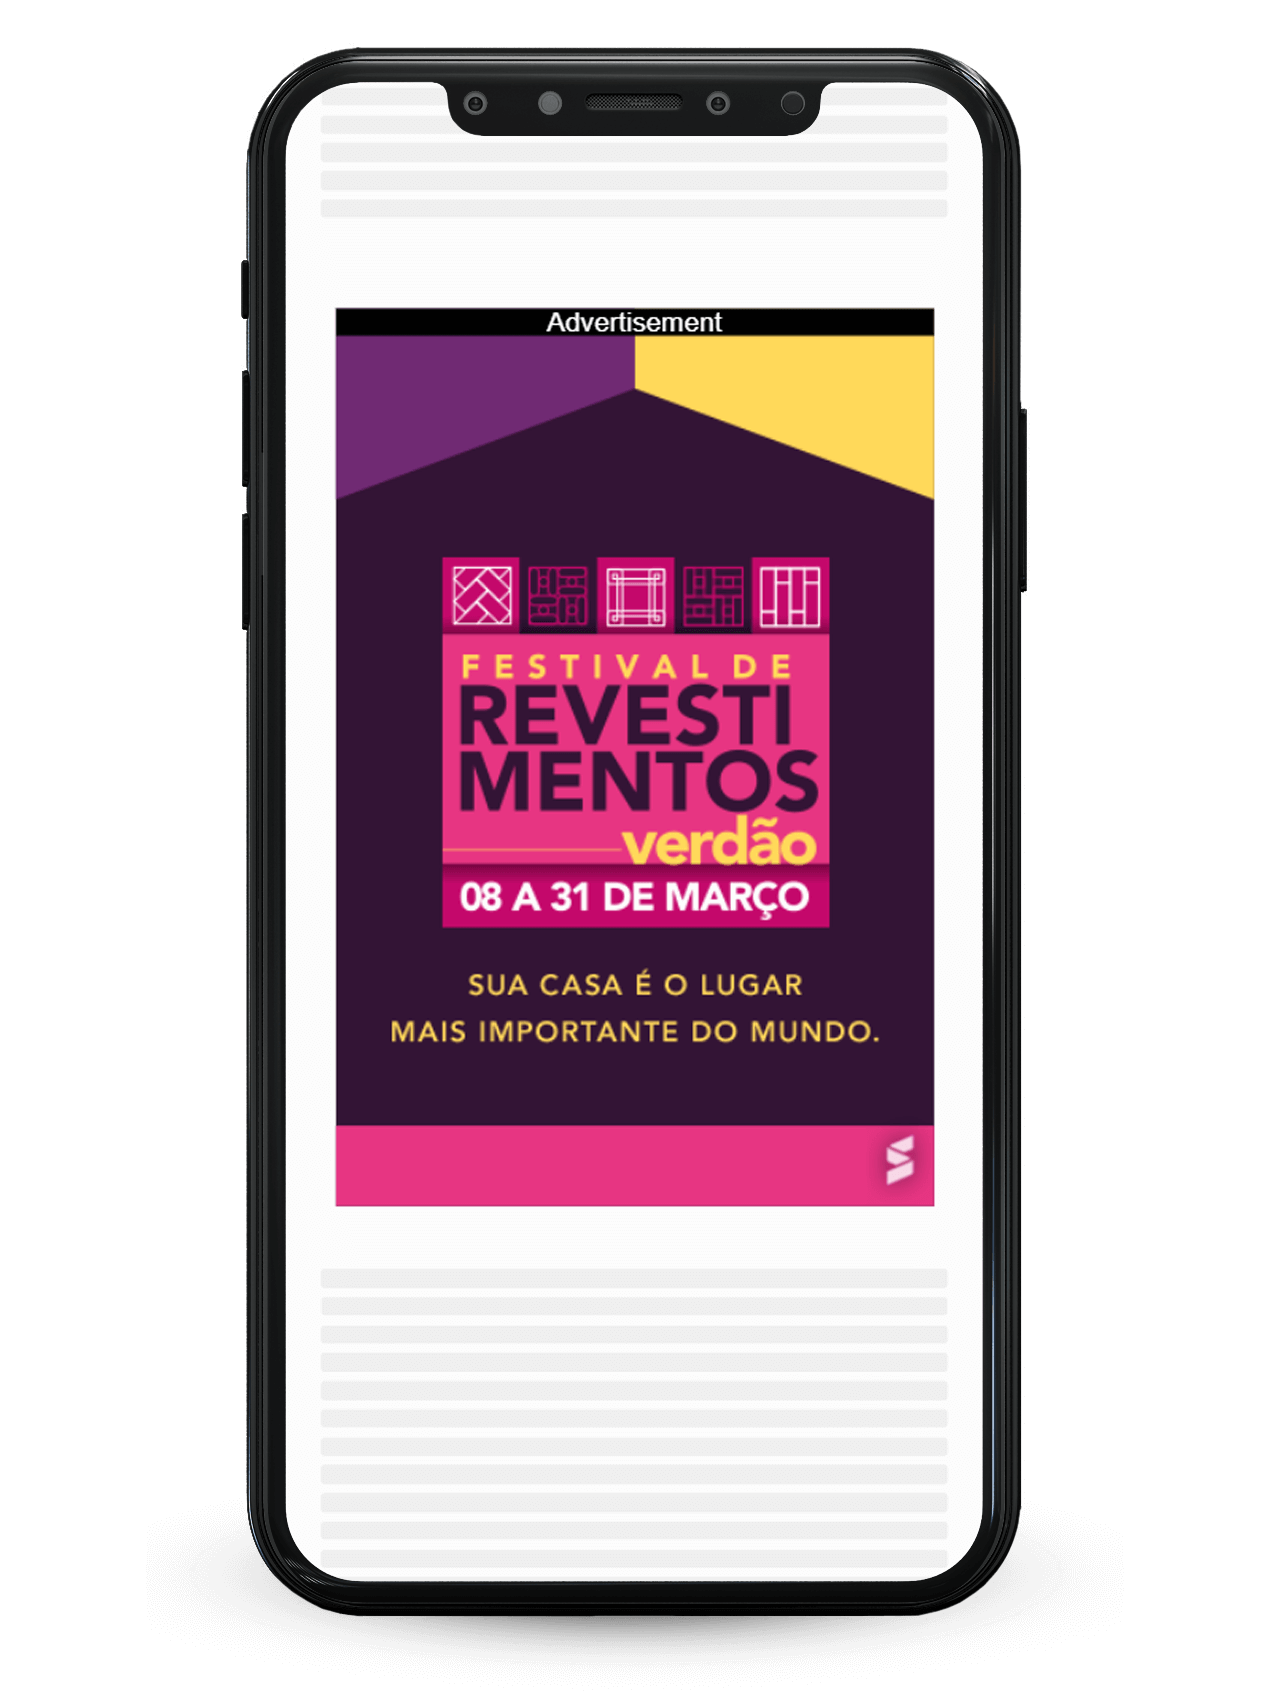
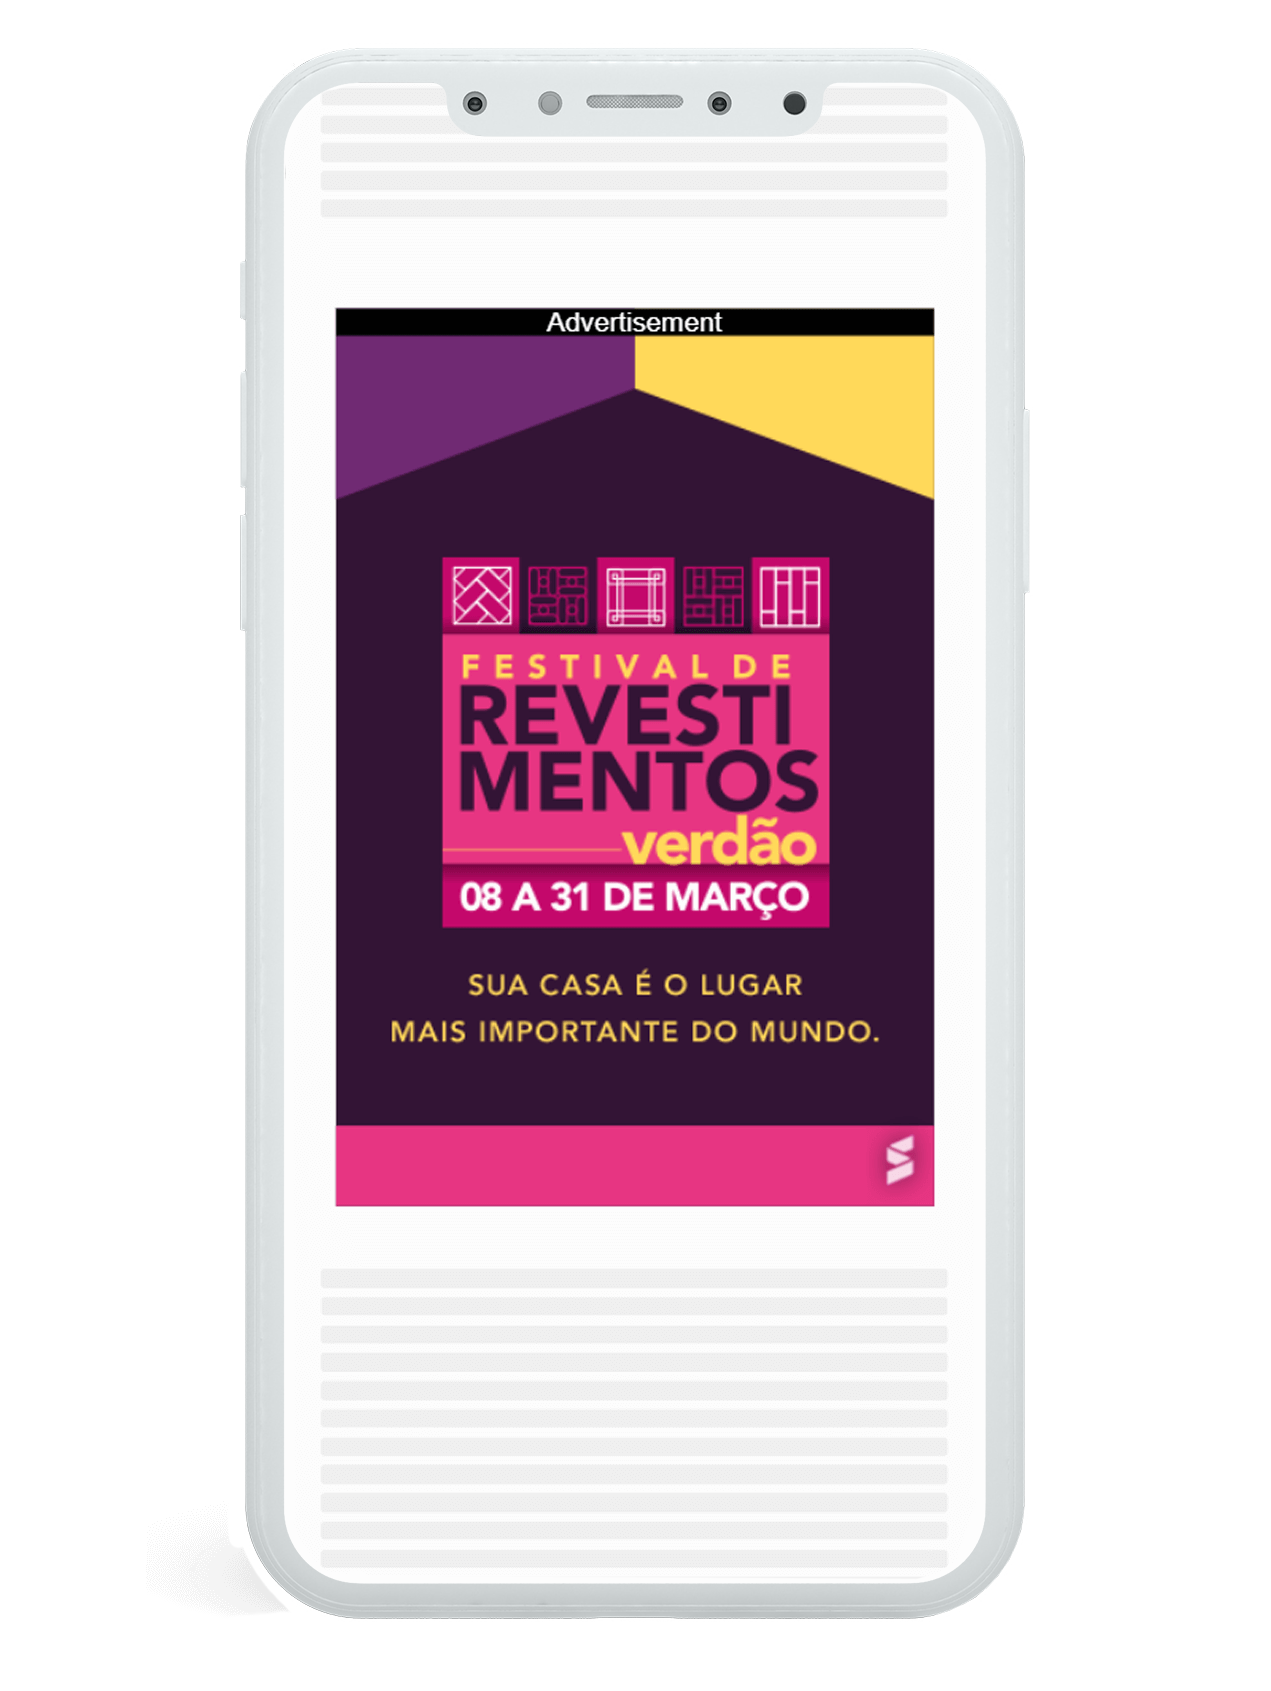
Add files via upload

Changed region(s): [[0.1841, 0.0308, 0.8285, 0.984]]

diff --git a/index.html b/index.html
@@ -331,7 +331,7 @@
                     </article>
 
                     <div class="img_ctnr">
-                        <img src="assets/excroll_rm_01.png" alt="Formatos rich media exclusivos e interativos" draggable="false">
+                        <img src="assets/facebook_ads.png" alt="Formatos rich media exclusivos e interativos" draggable="false">
                     </div>
                 </section>
                 
